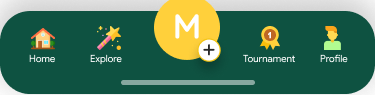
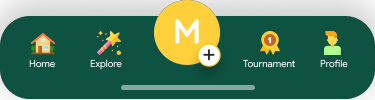
Added Theme 4

diff --git a/src/component/BottomNavBar.js b/src/component/BottomNavBar.js
@@ -460,7 +460,10 @@ const BottomNavBar = ({themeIndex, navIndex, onPress, navigation}) => {
 
     // organize badges screen
     global.filterBtnColor = 'rgba(255, 140, 0, 1)';
-    global.earnedBadgesGradientColors = ['rgba(20, 19, 37, 1)', 'rgba(20, 19, 37, 1)'];
+    global.earnedBadgesGradientColors = [
+      'rgba(20, 19, 37, 1)',
+      'rgba(20, 19, 37, 1)',
+    ];
     global.lockedBadgesBG = '#f4a8a4';
     global.lockedBadgesAboveTop2 = '#292929';
     global.lockedBadgesTitleColor = '#FFFFFF';
@@ -701,6 +704,118 @@ const BottomNavBar = ({themeIndex, navIndex, onPress, navigation}) => {
 
     // Edit Profile Screen
     global.editProfileBorderColor = '#EB3851';
+  } else if (themeIndex == 13) {
+    /* free theme3 */
+    gradientColors = ['#1B1C25', '#1B1C25'];
+
+    global.cust_item_code = 'theme-4';
+
+    icons.push(require('../images/mainHomFille.png'));
+    icons.push(require('../images/globeMainfilled.png'));
+    icons.push(require('../images/trophyFilledmain.png'));
+    icons.push(require('../images/personMainFilled.png'));
+
+    iconsSelected.push(require('../images/mainHomFille.png'));
+    iconsSelected.push(require('../images/globeMainfilled.png'));
+    iconsSelected.push(require('../images/trophyFilledmain.png'));
+    iconsSelected.push(require('../images/personMainFilled.png'));
+
+    centerIcon = require('../images/theme4MainM.png');
+
+    selectedColor = '#FFCD2F';
+    unselectedColor = '#FFFFFF';
+
+    // setting colors from previous developer
+    global.colorPrimary = '#040216';
+    global.colorSecondary = '#1B1C25';
+    global.colorInput = '#FFFFFF';
+    global.colorTextPrimary = '#FFFFFF';
+    global.colorTextSecondary = '#FFFFFF';
+    global.colorTextActive = '#FFFFFF';
+    global.colorIcon = '#FFFFFF';
+    global.gradientColors = ['#FFF62A', '#FFF62A'];
+
+    // ! SET COLORS HERE FOR NEW THEMES ! //
+
+    // tab color for dashboard `following | New Memes | Trending` || Tournament || Notification Inbox
+    global.tabSelectedColor = '#FFF62A';
+    global.tabNotSelectedColor = '#2B2A47';
+    global.tabColor = '#2B2A47';
+    global.tabSelectedTextColor = '#040216';
+    global.tabNotSelectedTextColor = '#B6B6B6';
+
+    // add coins color (two colors because default is gradient with 2 colors)
+    global.addCoinsBtnColor1 = '#FFF62A';
+    global.addCoinsBtnColor2 = '#FFF62A';
+
+    // like, comment and share
+    global.postInteractionsTextColor = '#FFFFFF';
+    global.postInteractionsBG = require('../images/theme4Rectangle.png');
+
+    // inputs
+    global.searchInputColor = '#2B2A47';
+    global.searchInputTextColor = '#FFFFFF';
+    global.searchInputPlaceholderTextColor = '#9B9B9B';
+    global.commentInputColor = '#2B2A47';
+    global.commentInputPlaceholderTextColor = '#9B9B9B';
+    global.commentInputTextColor = '#FFFFFF';
+    global.inputColor = '#FFFFFF';
+    global.inputPlaceholderTextColor = '#9B9B9B';
+    global.inputTextColor = '#FFFFFF';
+    global.editProfileInputBorderBottom = '#141325';
+
+    // trending tags in search color (gradient)
+    global.selectedTagsColor1 = '#FFF62A';
+    global.selectedTagsColor2 = '#FFF62A';
+    global.notSelectedTagsColor1 = '#2B2A47';
+    global.notSelectedTagsColor2 = '#2B2A47';
+    global.selectedTagText = '#040216';
+    global.notSelectedTagText = '#FFFFFF';
+    global.tagsBorderColor = '#040216';
+
+    // text button post text color (ex. post comment)
+    global.postTextComment = '#08BA8F';
+
+    // explore (TOP SCREEN) // not changed
+    global.resultsBorderBottomColor = '#EC8989';
+
+    // buttons
+    global.followBtnBG1 = global.btnColor1;
+    global.followBtnBG2 = global.btnColor2;
+    global.followBtnTextColor = global.btnTxt;
+    global.confirmBtnBG1 = global.btnColor1;
+    global.confirmBtnBG2 = global.btnColor2;
+    global.confirmBtnTextColor = global.btnTxt;
+    global.declineButtonBG = '#000000';
+    global.declineButtonTextColor = '#FFFFFF';
+
+    // notification inbox > activity tab
+    global.activityBorderBottomColor = '#FFFFFF';
+    global.followRequestCountBG = '#FF0000';
+    global.followRequestCountTextColor = '#FFFFFF';
+
+    // message tab // not changed
+    global.messageBG = '#f4a8a4';
+
+    // organize badges screen
+    global.filterBtnColor = '#FFF62A';
+    global.earnedBadgesGradientColors = ['#2B2A47', '#2B2A47'];
+    global.lockedBadgesBG = '#2B2A47';
+    global.lockedBadgesAboveTop2 = 'rgba(255, 255, 255, 0.1)';
+    global.lockedBadgesTitleColor = '#FFFFFF';
+    global.lockedBadgesSubTitleColor = '#FFFFFF';
+    global.lockedBadgesRarityColor = '#FFFFFF';
+    global.lockedBadgesPointsColor = '#FFFFFF';
+    global.filterSelectedBtn1 = '#230B34';
+    global.filterSelectedBtn2 = '#230B34';
+    global.filterNotSelectedBtn1 = '#ECB602'; // not
+    global.filterNotSelectedBtn3 = '#ECB602'; // not
+    global.filterSelectedText = '#FFFFFF';
+    global.filterNotSelectedTagText = '#9B9B9B';
+    global.filterTagsBorderColor = '#230B34'; // not
+
+    // Edit Profile Screen
+    global.editProfileBorderColor = '#FFF62A';
   } else {
     /* main_theme  */
     gradientColors = ['#292929', '#292929'];

diff --git a/src/component/ButtonCoins.js b/src/component/ButtonCoins.js
@@ -1,67 +1,73 @@
 import React from 'react';
-import { TouchableOpacity, Text, StyleSheet, View, Image } from 'react-native';
+import {TouchableOpacity, Text, StyleSheet, View, Image} from 'react-native';
 import LinearGradient from 'react-native-linear-gradient';
 
-
-const ButtonCoins = ({ title, onPress, showAdd, font }) => {
-    return (
-        <TouchableOpacity
-            activeOpacity={0.5}
-            onPress={onPress}
-            style={styles.buttonStyle}>
-
-            <LinearGradient
-                colors={[global.addCoinsBtnColor1, global.addCoinsBtnColor2]}
-                style={{ height: 50, minWidth: 120, flexDirection: 'row', alignItems: 'center', justifyContent: 'space-evenly', alignSelf: 'center', borderRadius: 22, }}
-            >
-                {showAdd == '1' ?
-                    null
-                    :
-                    <View style={styles.addCircle}>
-                        <Text style={{ fontSize: 17, marginTop: -3, }}>+</Text>
-                    </View>
-                }
-                <Text style={[styles.buttonTitleStyle, { fontFamily: font }]}>{title}</Text>
-                <Image
-                    style={{ height: 22, width: 22, marginRight: 10 }}
-                    resizeMode='stretch'
-                    source={require('../images/Coin.png')}
-                />
-
-            </LinearGradient>
-        </TouchableOpacity>
-    );
-}
+const ButtonCoins = ({title, onPress, showAdd, font}) => {
+  return (
+    <TouchableOpacity
+      activeOpacity={0.5}
+      onPress={onPress}
+      style={styles.buttonStyle}>
+      <LinearGradient
+        colors={[global.addCoinsBtnColor1, global.addCoinsBtnColor2]}
+        style={{
+          height: 50,
+          minWidth: 120,
+          flexDirection: 'row',
+          alignItems: 'center',
+          justifyContent: 'space-evenly',
+          alignSelf: 'center',
+          borderRadius: 22,
+        }}>
+        {showAdd == '1' ? null : (
+          <View style={styles.addCircle}>
+            <Text style={{fontSize: 17, marginTop: -3}}>+</Text>
+          </View>
+        )}
+        <Text style={[styles.buttonTitleStyle, {fontFamily: font}]}>
+          {title}
+        </Text>
+        <Image
+          style={{height: 22, width: 22, marginRight: 10}}
+          resizeMode="stretch"
+          source={require('../images/Coin.png')}
+        />
+      </LinearGradient>
+    </TouchableOpacity>
+  );
+};
 
 const styles = StyleSheet.create({
-    buttonStyle: {
-        backgroundColor: '#60E654',
-        height: 50,
-        minWidth: 120,
-        marginTop: -20,
-        marginRight: 13,
-        alignItems: 'center',
-        justifyContent: 'space-evenly',
-        alignSelf: 'center',
-        borderRadius: 22,
-        elevation: 10,
-        flexDirection: 'row'
-    },
-    buttonTitleStyle: {
-        fontFamily: 'OpenSans-SemiBold',
-        fontSize: 16,
-        color: '#fff',
-        marginLeft: 'auto',
-        marginRight: 4,
-        marginLeft: 4
-    },
-    addCircle: {
-        width: 22, height: 22, borderRadius: 25,
-        backgroundColor: '#ffffff',
-        alignItems: 'center',
-        justifyContent: 'center',
-        marginLeft: 10,
-    }
-})
+  buttonStyle: {
+    backgroundColor: '#60E654',
+    height: 50,
+    minWidth: 120,
+    marginTop: -20,
+    marginRight: 13,
+    alignItems: 'center',
+    justifyContent: 'space-evenly',
+    alignSelf: 'center',
+    borderRadius: 22,
+    elevation: 10,
+    flexDirection: 'row',
+  },
+  buttonTitleStyle: {
+    fontFamily: 'OpenSans-SemiBold',
+    fontSize: 16,
+    color: '#fff',
+    marginLeft: 'auto',
+    marginRight: 4,
+    marginLeft: 4,
+  },
+  addCircle: {
+    width: 22,
+    height: 22,
+    borderRadius: 25,
+    backgroundColor: '#ffffff',
+    alignItems: 'center',
+    justifyContent: 'center',
+    marginLeft: 10,
+  },
+});
 
 export default ButtonCoins;

diff --git a/src/screens/ProfileSetting/index.js b/src/screens/ProfileSetting/index.js
@@ -197,6 +197,14 @@ export default function ProfileSetting(props) {
             purchase_id: undefined,
             type: 'icon',
           },
+          {
+            datetime: undefined,
+            img: require('../../images/theme4TabBar.png'),
+            item_code: 'free_icon_theme_4',
+            item_id: 'free-icon-theme-4',
+            purchase_id: undefined,
+            type: 'icon',
+          },
         ];
 
         const freeButtons = [
@@ -228,6 +236,14 @@ export default function ProfileSetting(props) {
             item_code: 'free_icon_theme_3',
             datetime: undefined,
             item_id: 'free-icon-theme-3',
+            purchase_id: undefined,
+            type: 'button',
+            img: require('../../images/genericButton.png'),
+          },
+          {
+            item_code: 'free_icon_theme_4',
+            datetime: undefined,
+            item_id: 'free-icon-theme-4',
             purchase_id: undefined,
             type: 'button',
             img: require('../../images/genericButton.png'),
@@ -383,7 +399,7 @@ export default function ProfileSetting(props) {
       setbtnText('Buttons');
       setbtnTextColor('#000000');
       global.btnTxt = '#000000';
-    }  else if (buttonPurchased[btnNo].item_code == 'free_icon_theme_2') {
+    } else if (buttonPurchased[btnNo].item_code == 'free_icon_theme_2') {
       await AsyncStorage.setItem('@btnclr1', '#1EDAAD');
       await AsyncStorage.setItem('@btnclr2', '#00AF85');
       await AsyncStorage.setItem('@btntxtclr', '#ffffff');
@@ -409,6 +425,19 @@ export default function ProfileSetting(props) {
       setbtnText('Buttons');
       setbtnTextColor('#ffffff');
       global.btnTxt = '#ffffff';
+    } else if (buttonPurchased[btnNo].item_code == 'free_icon_theme_4') {
+      await AsyncStorage.setItem('@btnclr1', '#FFF62A');
+      await AsyncStorage.setItem('@btnclr2', '#FFF62A');
+      await AsyncStorage.setItem('@btntxtclr', '#040216');
+      await AsyncStorage.setItem('@btntxt', 'Buttons');
+      global.btnColor1 = '#FFF62A';
+      global.btnColor2 = '#FFF62A';
+      global.btnText = 'Buttons';
+      setBtncolor1('#FFF62A');
+      setbtncolor2('#FFF62A');
+      setbtnText('Buttons');
+      setbtnTextColor('#040216');
+      global.btnTxt = '#040216';
     }
   }
 
@@ -640,6 +669,21 @@ export default function ProfileSetting(props) {
       setbtnText('Buttons');
       setbtnTextColor('#ffffff');
       global.btnTxt = '#ffffff';
+      global.WhichTab = '1';
+    } else if (bottomTabicon[index].item_code == 'free_icon_theme_4') {
+      dispatch(storeIconsBottomTabFN(12));
+      await AsyncStorage.setItem('@btnclr1', '#FFF62A');
+      await AsyncStorage.setItem('@btnclr2', '#FFF62A');
+      await AsyncStorage.setItem('@btntxtclr', '#040216');
+      await AsyncStorage.setItem('@btntxt', 'Buttons');
+      global.btnColor1 = '#FFF62A';
+      global.btnColor2 = '#FFF62A';
+      global.btnText = 'Buttons';
+      setBtncolor1('#FFF62A');
+      setbtncolor2('#FFF62A');
+      setbtnText('Buttons');
+      setbtnTextColor('#040216');
+      global.btnTxt = '#040216';
       global.WhichTab = '1';
     } else {
       console.log('wronge item code');

diff --git a/src/screens/SplashScreen/index.js b/src/screens/SplashScreen/index.js
@@ -300,6 +300,22 @@ function SplashScreen({navigation}) {
         global.addCoinsBtnColor1 = '#F23F58';
         global.addCoinsBtnColor2 = '#D4233B';
         global.iconBottomSelected = require('../../images/theme3TabBar.png');
+      } else if (iconBottomItemCode == 'free_icon_theme_4') {
+        dispatch(storeIconsBottomTabFN(13));
+
+        global.BottomIcon1 = require('../../images/mainHomFille.png');
+        global.BottomIcon2 = require('../../images/globeMainfilled.png');
+        global.BottomIcon3 = require('../../images/trophyFilledmain.png');
+        global.BottomIcon4 = require('../../images/personMainFilled.png');
+        global.BottomMainIcon = require('../../images/theme4MainM.png');
+
+        global.bottomClr1 = '#FFF62A';
+        global.bottomClr2 = '#FFF62A';
+        global.WhichTab = '1';
+
+        global.addCoinsBtnColor1 = '#FFF62A';
+        global.addCoinsBtnColor2 = '#FFF62A';
+        global.iconBottomSelected = require('../../images/theme4TabBar.png');
       } else {
         dispatch(storeIconsBottomTabFN(8));
         global.BottomIcon1 = require('../../images/Home.png');
